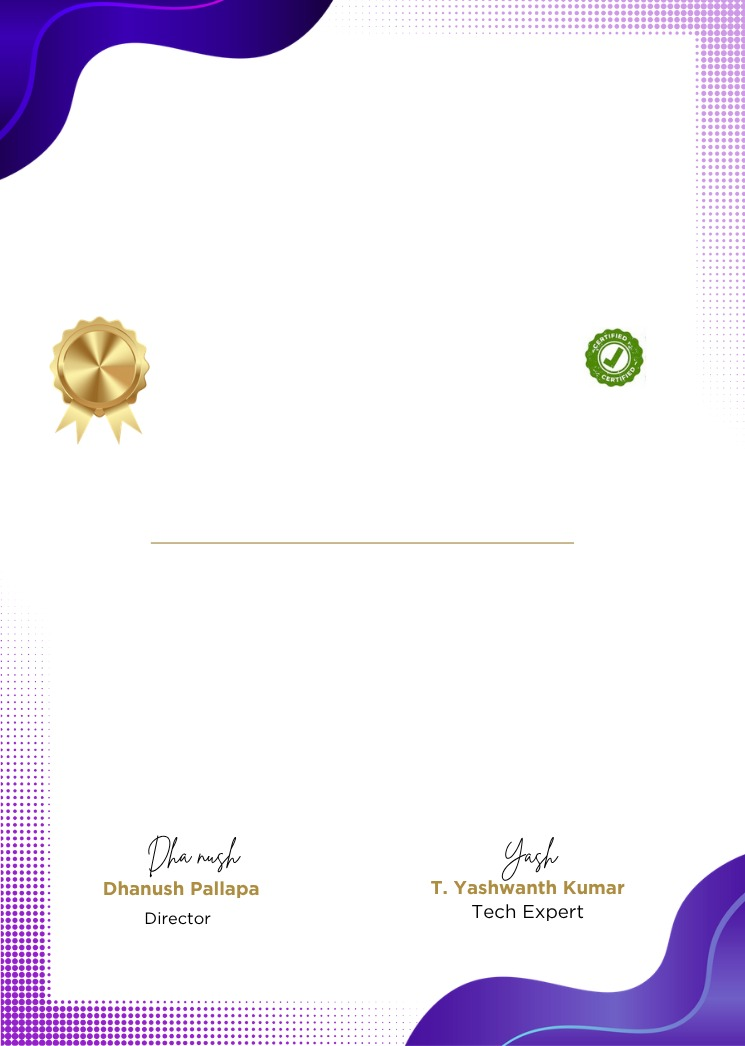
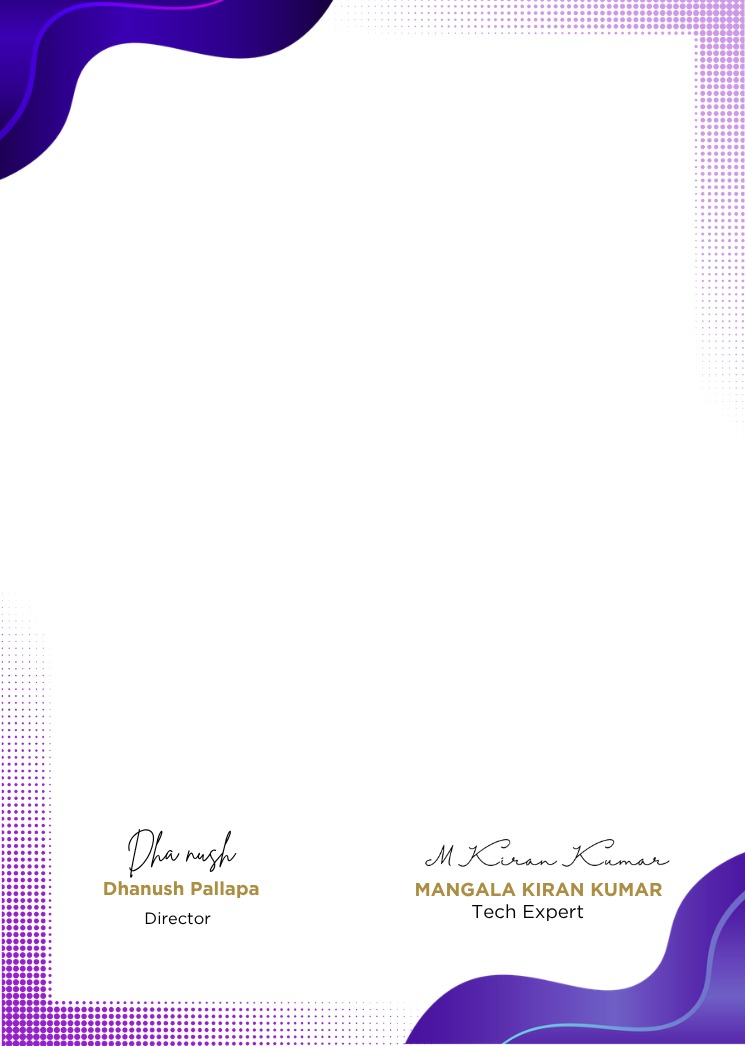
first commit

diff --git a/server/services/certificate.service.js b/server/services/certificate.service.js
@@ -9,8 +9,8 @@ const createCertificate = async (certificateData, adminId) => {
     // 1. Generate sequential ID
     const certificateId = await generateCertificateId();
     
-    // 2. Create Verification URL - Forcefully use the custom domain
-    const frontendUrl = 'https://certificate.spheronixtechnology.com';
+    // 2. Create Verification URL
+    const frontendUrl = process.env.FRONTEND_URL || 'https://certificate.spheronixtechnology.com';
     const verificationUrl = `${frontendUrl}/verify/${certificateId}`;
 
     // 3. Generate QR Code
@@ -51,7 +51,7 @@ const recoverPdf = async (certificateId) => {
   const certificate = await Certificate.findOne({ certificateId });
   if (!certificate) return null;
 
-  const frontendUrl = 'https://certificate.spheronixtechnology.com';
+  const frontendUrl = process.env.FRONTEND_URL || 'https://certificate.spheronixtechnology.com';
   const verificationUrl = `${frontendUrl}/verify/${certificateId}`;
   const qrPath = await generateQR(certificateId, verificationUrl);
   const pdfPath = await generatePDF(certificate, qrPath);
